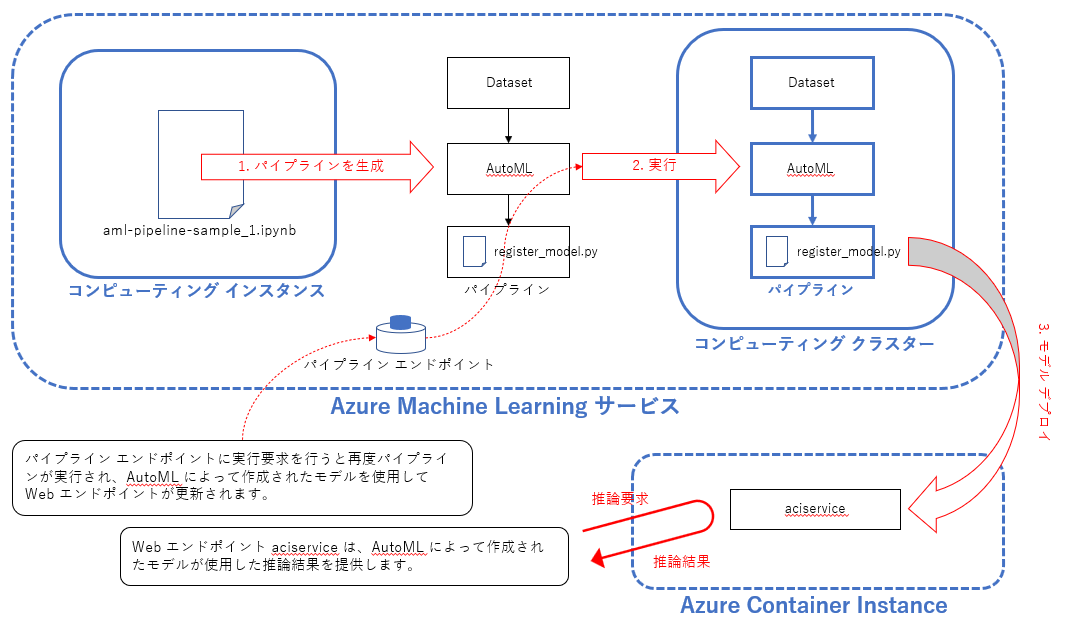
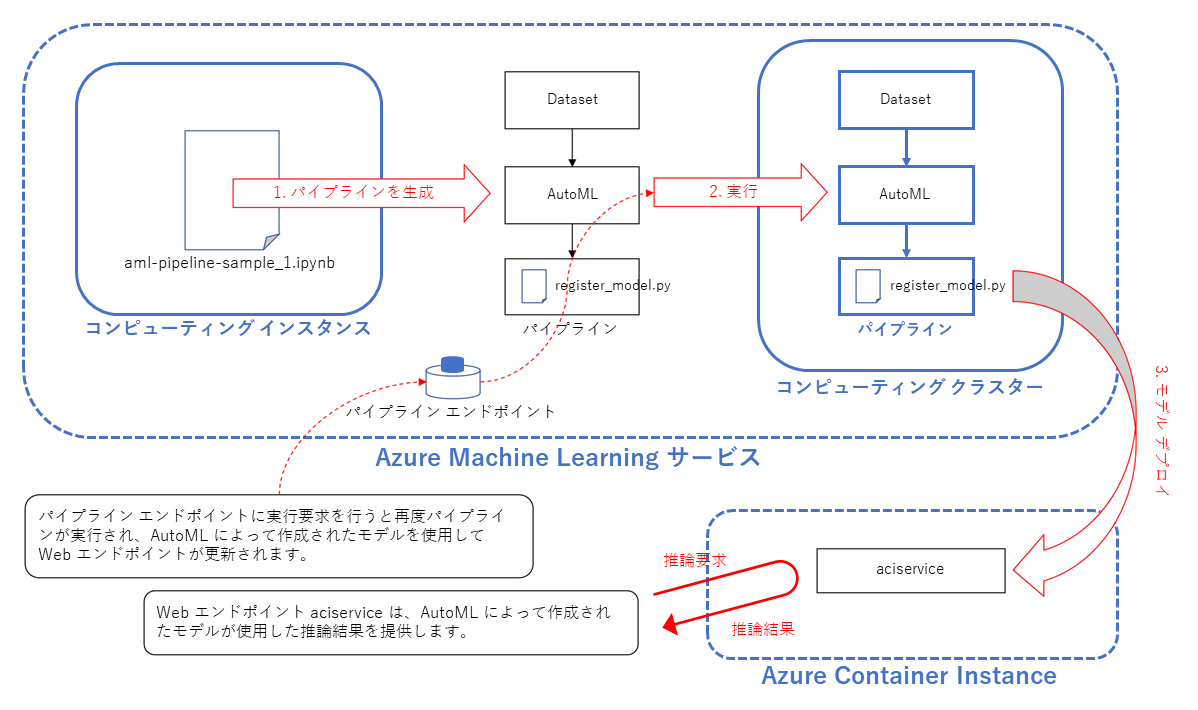
modified

Changed region(s): [[0.0, 0.0, 0.9897, 1.0], [0.6495, 0.5168, 0.866, 0.5776]]

diff --git a/AML_example_pipeline_lifecycle.md b/AML_example_pipeline_lifecycle.md
@@ -20,7 +20,7 @@ Azure Machine Learning のライフサイクルを実現する Azure Machine Lea
 ## イメージ
 
 // ライフサイクルは以下のようなイメージです。これを参考に後述の手順をご確認ください。  
-<img src="https://jpmlblog.github.io/images/AML_example_pipeline_lifecycle/lifecycle-image.png" width=800px align="left" border="1"><br clear="left">  
+<img src="https://jpmlblog.github.io/images/AML_example_pipeline_lifecycle/lifecycle-image.png" width=900px align="left" border="1"><br clear="left">  
 
 ## パイプラインの作成
 
